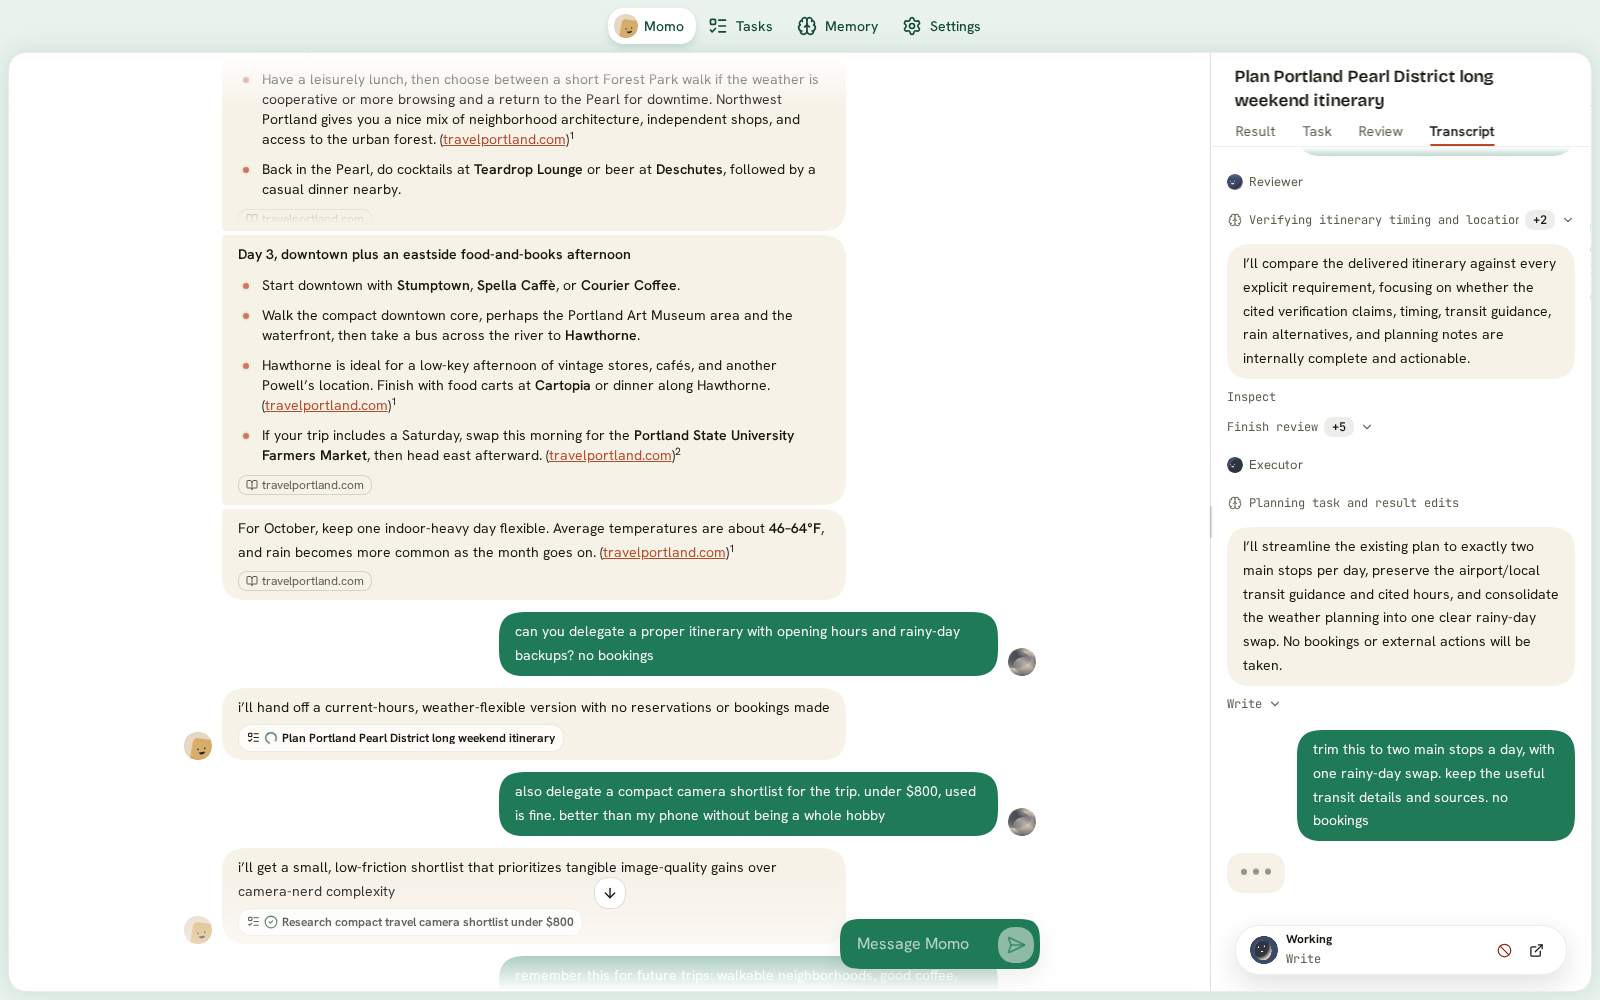
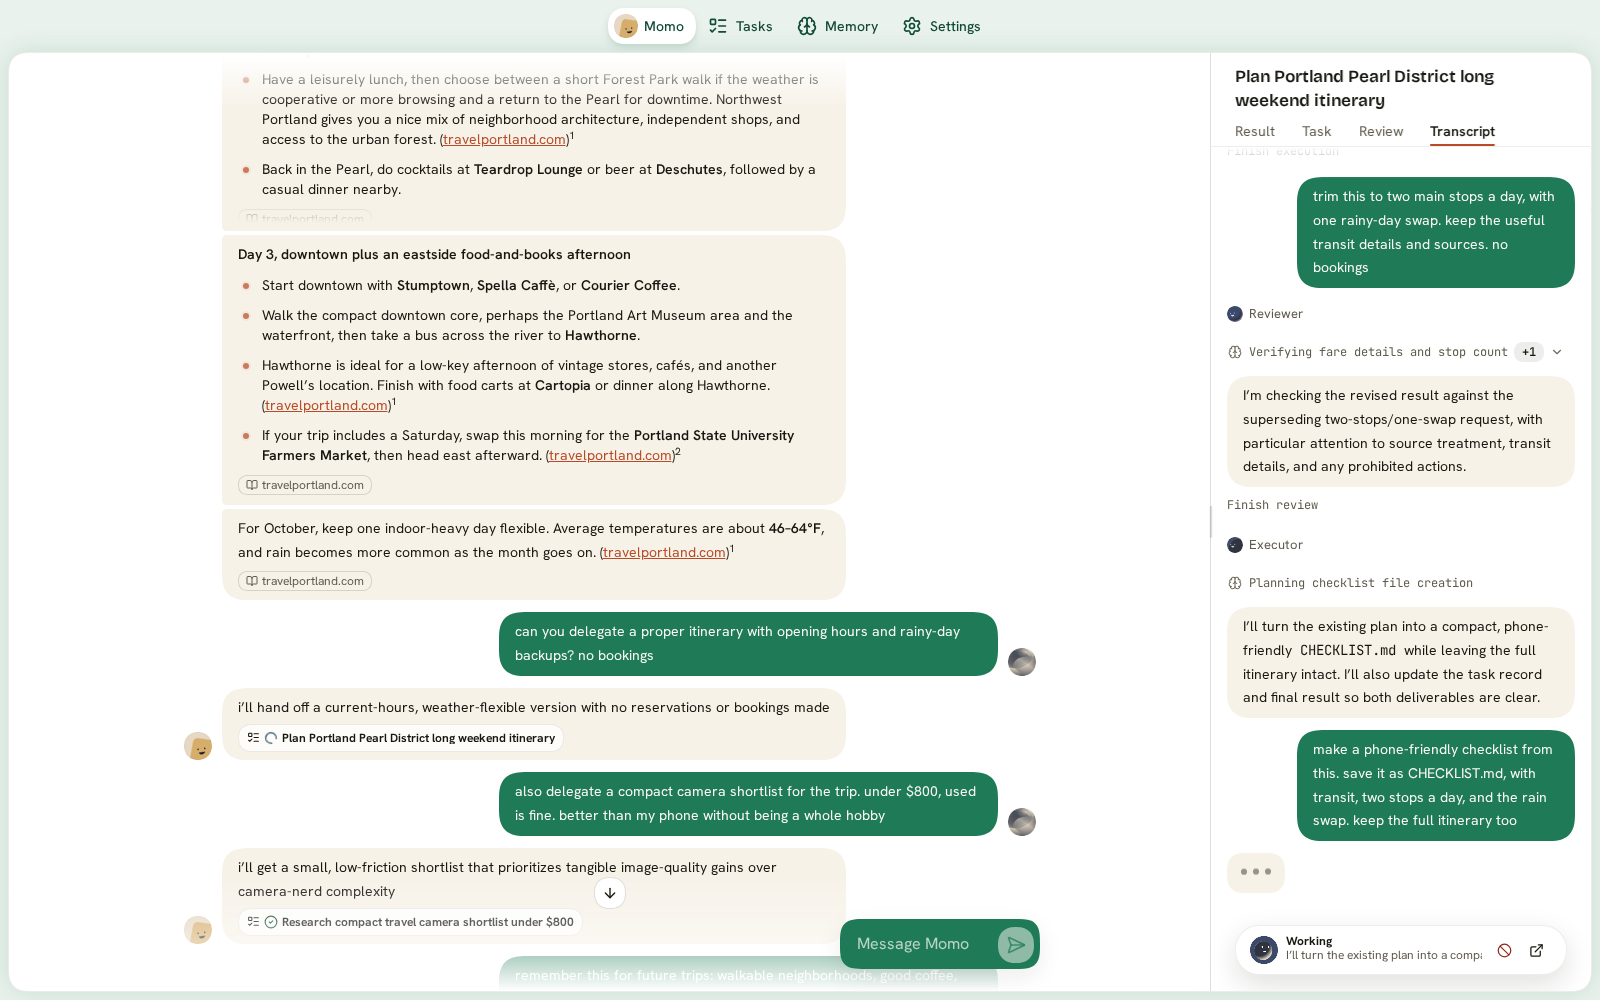
Tighten Task status line spacing and refresh screenshots

Changed region(s): [[0.75, 0.062, 1.0, 0.713], [0.8125, 0.744, 0.9688, 0.837], [0.7812, 0.93, 0.9062, 0.961]]

diff --git a/apps/web/src/components/chatDetail/task/TaskDetailPanel.tsx b/apps/web/src/components/chatDetail/task/TaskDetailPanel.tsx
@@ -364,8 +364,8 @@ const styles = stylex.create({
   contributorAvatarOverlap: { marginInlineStart: "calc(-1 * var(--spacing-1))" },
   summaryCopy: { display: "grid", minWidth: 0, gap: "var(--spacing-0)" },
   summaryTitle: { minWidth: 0, color: "var(--noema-text-primary)", fontSize: 12, fontWeight: 700, lineHeight: 1.35, overflow: "hidden", overflowWrap: "anywhere", textOverflow: "ellipsis", whiteSpace: "nowrap" },
-  summaryOutput: { marginBlockStart: "calc(-1 * var(--spacing-0-5))", minWidth: 0, overflow: "hidden", color: "var(--noema-text-secondary)", fontSize: 12, lineHeight: "var(--spacing-6)", textOverflow: "ellipsis", whiteSpace: "nowrap" },
-  summaryEntry: { marginBlockStart: "calc(-1 * var(--spacing-0-5))", display: "block", minWidth: 0, height: "var(--spacing-6)", overflow: "hidden", whiteSpace: "nowrap" },
+  summaryOutput: { marginBlockStart: "calc(-1 * var(--spacing-1-5))", minWidth: 0, overflow: "hidden", color: "var(--noema-text-secondary)", fontSize: 12, lineHeight: "var(--spacing-6)", textOverflow: "ellipsis", whiteSpace: "nowrap" },
+  summaryEntry: { marginBlockStart: "calc(-1 * var(--spacing-1-5))", display: "block", minWidth: 0, height: "var(--spacing-6)", overflow: "hidden", whiteSpace: "nowrap" },
   summaryActions: { display: "inline-flex", alignItems: "center", gap: "var(--spacing-1)" },
   summaryControlsHost: { display: "inline-flex", alignItems: "center" },
   summaryAction: { width: 28, height: 28 },

diff --git a/docs/images/README.md b/docs/images/README.md
@@ -31,8 +31,8 @@ The normal recovery action directed it to continue with web search and label unv
 No saved action or result was rewritten.
 The itinerary then completed execution and passed review at 04:55 UTC.
 The desktop and phone Task images show its actual result.
-Both Tasks had completed when the desktop and phone result images were captured.
-The hero was captured later, during a real itinerary revision.
+All three Task-related images now show a real checklist revision in progress.
+The full itinerary remains visible while the Task prepares a separate phone-friendly checklist.
 Chat is scrolled to the delegation exchange; the transcript shows the current revision work.
 
 The memory update action failed twice because generated pages cited ineligible sources.
@@ -86,14 +86,14 @@ Chat, desktop Task, and phone Task images were captured again after reducing the
 The bar measures 50 pixels, down from 58 pixels, at all three captured widths.
 Its buttons and icons keep their existing sizes.
 The new-task screen also received desktop and phone visual review.
-These captures used existing data and made no product changes.
+The read-only capture helper made no product changes. Follow-up requests used the normal Task API.
 
 The compact-bar change passed frontend type checking and lint.
 The main Vite bundle built successfully; its parent command stopped before the GraphiQL build.
 The remaining `bun run build:graphiql` step passed when run separately.
 `bun run check:generated` passed after committing the required model-settings input correction.
 That correction preserves the existing enabled state when saving a model choice.
-The result screenshots show completed work. The refreshed hero shows a running Task, but no approval state.
+The refreshed screenshots show a running Task, but no approval state.
 
 ## Active hero correction
 
@@ -103,3 +103,14 @@ The hero records the real Executor running and writing; its status was not subst
 The existing 50-pixel bar remains unchanged.
 The image received visual review, with no horizontal page overflow.
 Only the hero image and these notes changed; no application checks were needed.
+
+## Tighter status and activity lines
+
+The status and activity lines now sit four pixels closer together.
+The bar remains 50 pixels high, with unchanged buttons and icons.
+Both plain-text activity and tool markers use the same spacing adjustment.
+The Task was reopened to create `CHECKLIST.md` while retaining the full itinerary.
+Chat, desktop Task, and phone Task images record that real work in progress.
+All three images received visual review; the lines remain readable without horizontal overflow.
+`bun run check:generated`, `bun run lint`, and `bun run build` passed on this patch.
+No new frontend tests were added.

diff --git a/docs/frontend/current-contract.md b/docs/frontend/current-contract.md
@@ -221,6 +221,7 @@ The Task loading placeholder uses the same width and placement.
 Transcript fills the right column’s height.
 The Task summary bar is 50 pixels high, including its border. Its 48-pixel header uses compact vertical padding.
 The action bar shows task state above the latest live activity at every width.
+Text and tool activity rows use the same compact overlap with the status line.
 Human attention takes priority and shows its summary. Inactive tasks omit old run activity.
 Activity stays on one line; full content remains in Transcript. Agent identity stays with the avatar.
 At smaller widths, Task detail uses tabs and swipe navigation.

diff --git a/README.md b/README.md
@@ -76,7 +76,7 @@ Tasks move through Planner, Executor, and Reviewer runs.
 The Reviewer can accept a result, request corrections, or ask for human input.
 Open the Task to read its request, result, review, and execution transcript.
 
-![A completed itinerary Task with its real research result and camera research in Task history](docs/images/task.png)
+![An itinerary Task showing its research result while preparing a phone checklist](docs/images/task.png)
 
 Group related Tasks into Projects with shared context.
 Use schedules and recurrence templates for work that must run later or repeat.
